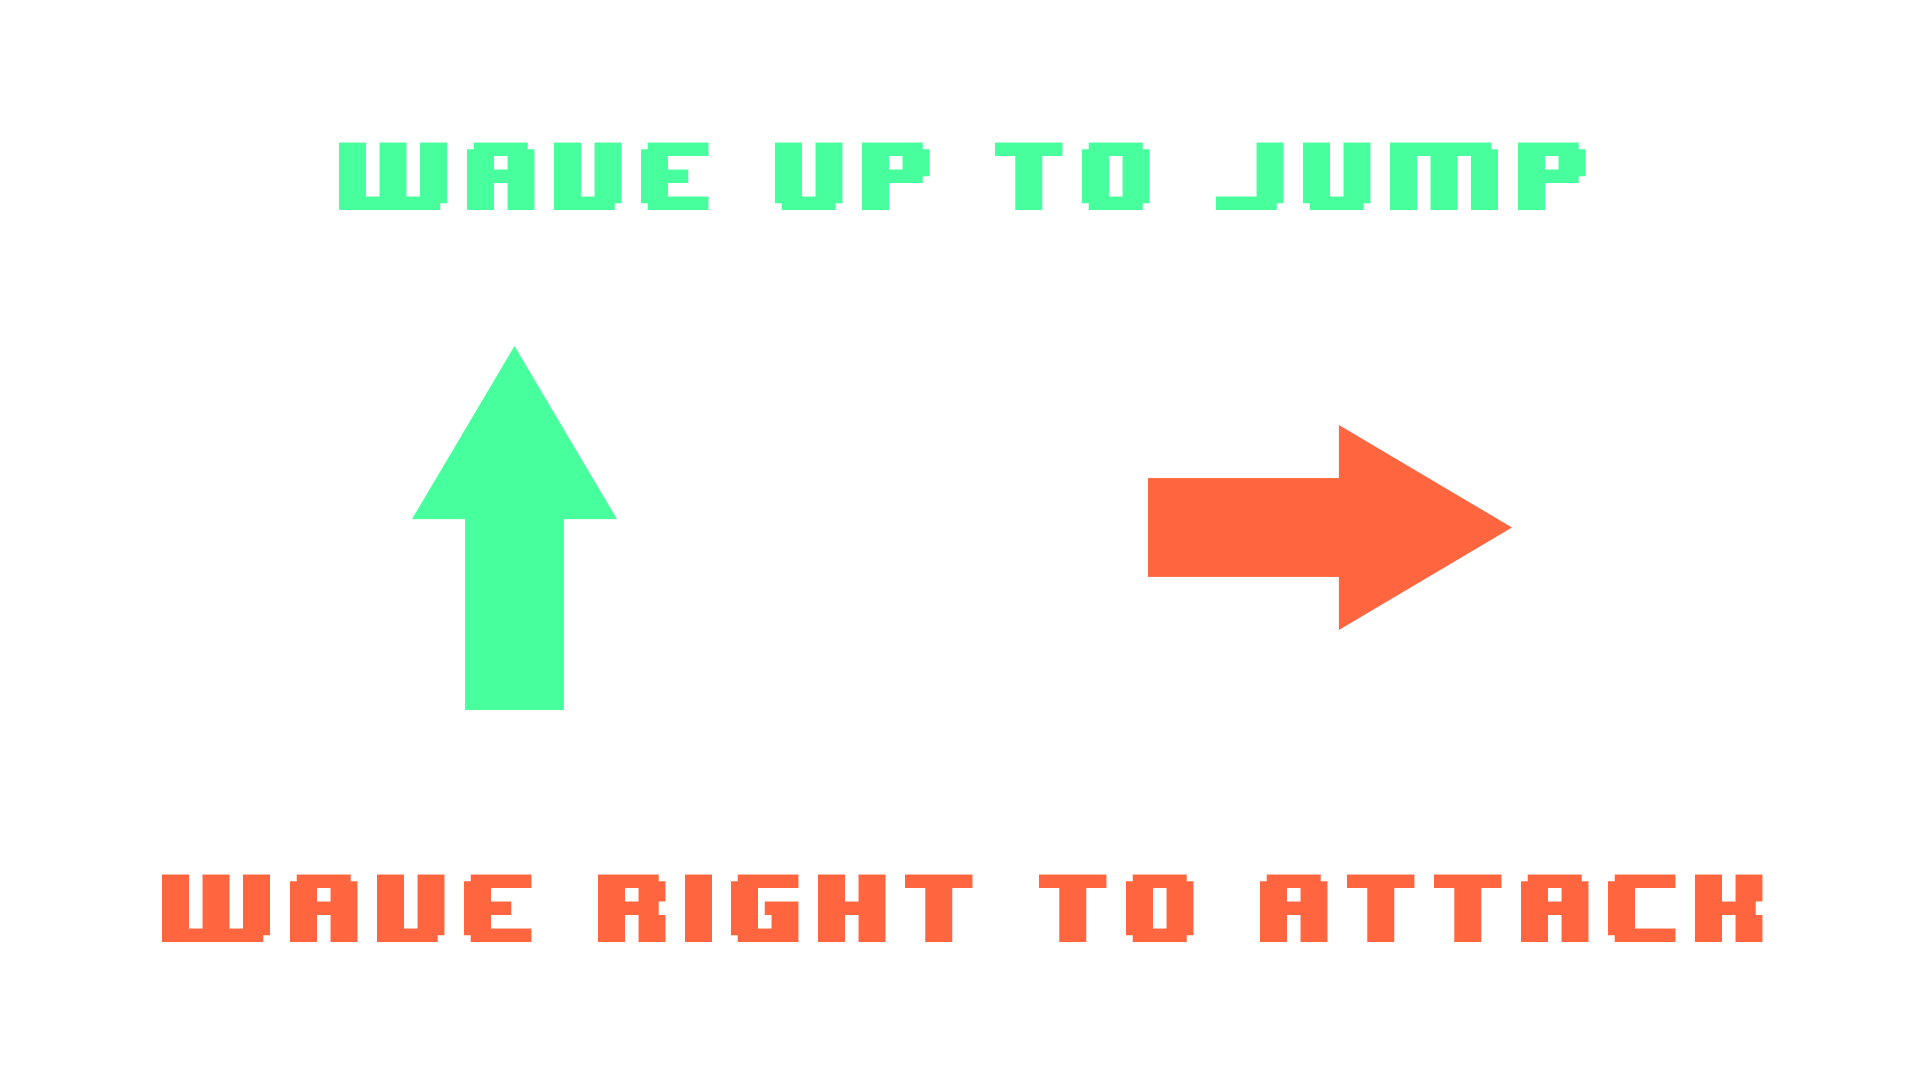
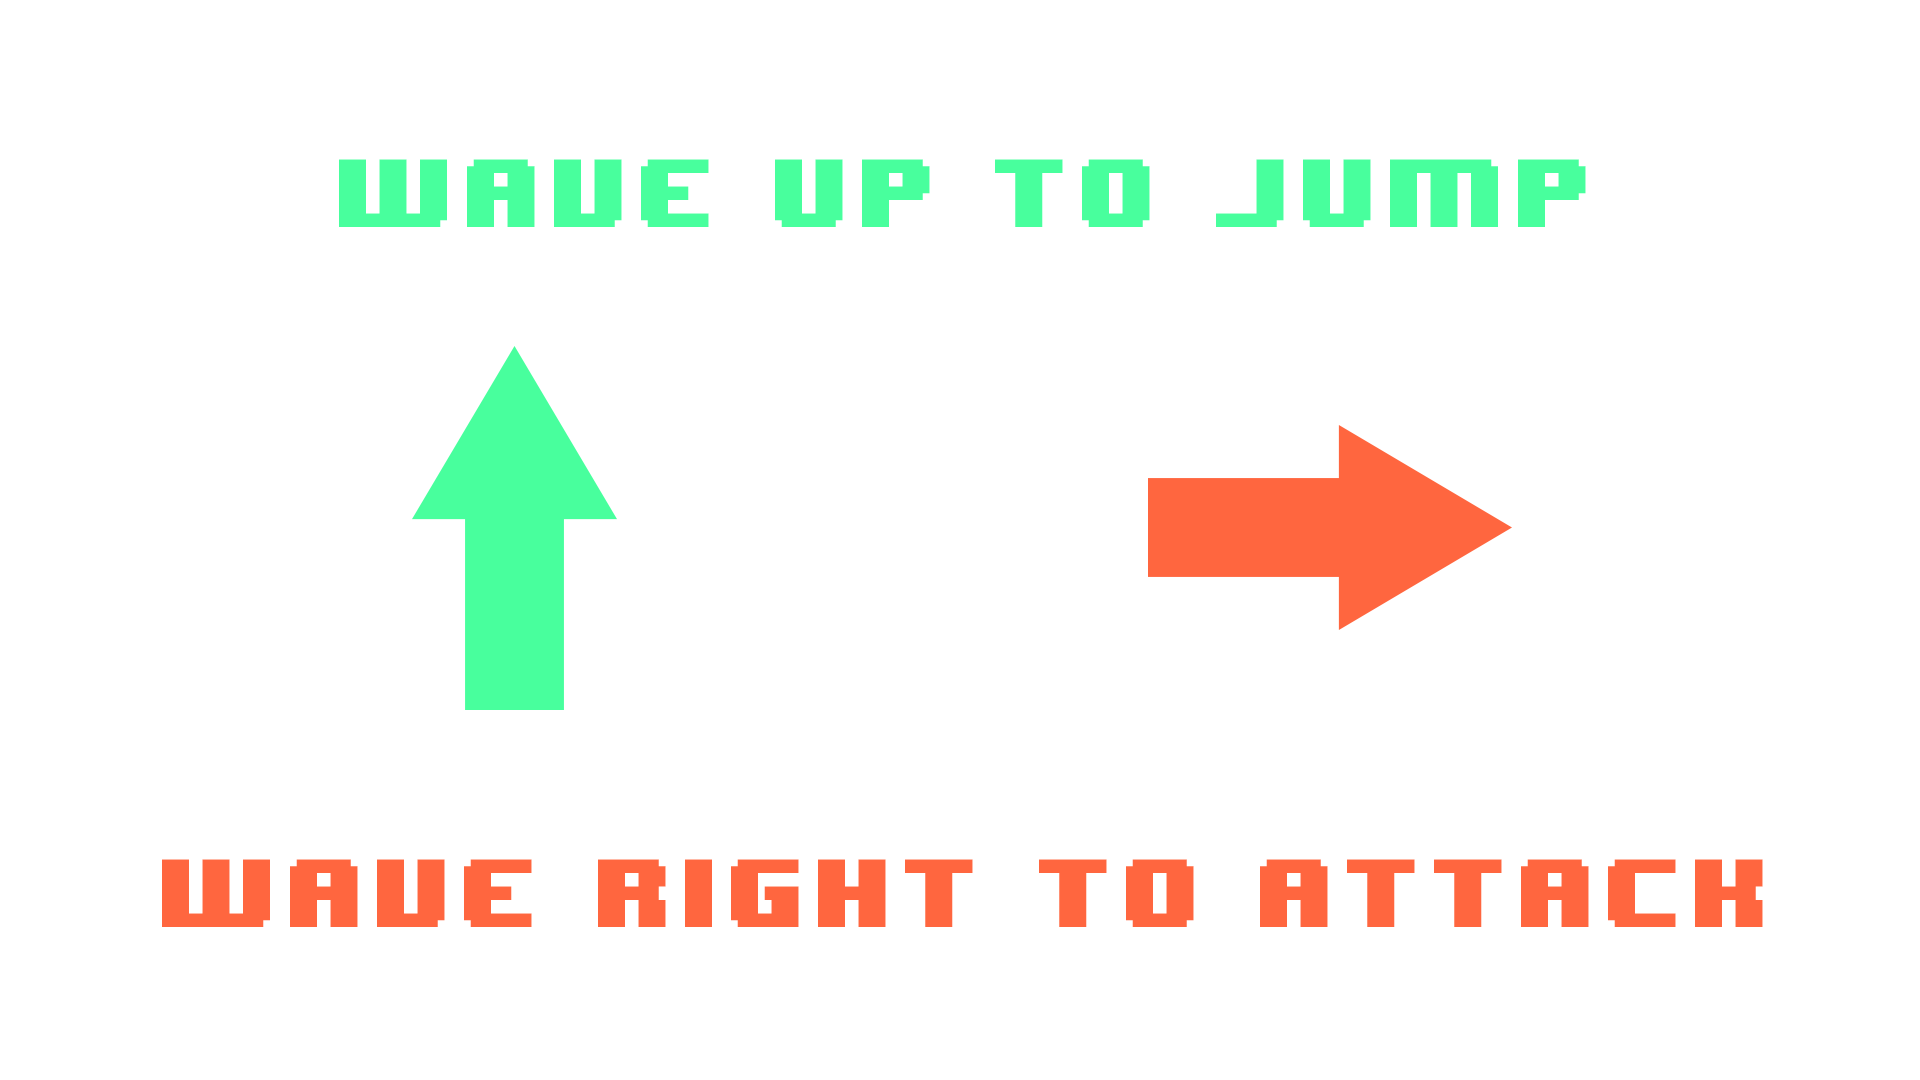
Tutorial weirdness

diff --git a/Game.H b/Game.H
@@ -54,10 +54,6 @@ namespace Game {
         cout << "Error loading background texture" << endl;
       }
 
-      if ( !tutorialTexture.loadFromFile(assetBasePath + "tutorial.png") ) {
-        cout << "Error loading tutorial texture" << endl;
-      }
-
       if ( !font.loadFromFile(assetBasePath + "8bit.ttf") ) {
         cout << "Error loading font" << endl;
       }
@@ -85,13 +81,6 @@ namespace Game {
       float scale = std::max(scaleX, scaleY);
       backgroundSprite.scale(scale, scale);
 
-      auto tutorialSize = tutorialTexture.getSize();
-      tutorialSprite.setTexture(tutorialTexture);
-      scaleX = (float) width / tutorialSize.x;
-      scaleY = (float) height / tutorialSize.y;
-      scale = std::max(scaleX, scaleY);
-      tutorialSprite.scale(scale, scale);
-
       wandDisplay.setFont(font);
 
       gameOverText.setString("Game over");
@@ -108,8 +97,26 @@ namespace Game {
       countdownText.setPosition(sf::Vector2f(width / 2. - textBounds.width / 2,
                                              height / 2. - textBounds.height / 2.));
 
+      jumpTutorialText.setString("Wave up to jump");
+      jumpTutorialText.setFont(font);
+      jumpTutorialText.setCharacterSize(72);
+      textBounds = jumpTutorialText.getLocalBounds();
+      jumpTutorialText.setPosition(sf::Vector2f(width / 2. - textBounds.width / 2,
+                                                height * 0.1));
+      jumpTutorialText.setFillColor(sf::Color(72, 255, 157, 255));
+
+      attackTutorialText.setString("Wave right to attack");
+      attackTutorialText.setFont(font);
+      attackTutorialText.setCharacterSize(72);
+      textBounds = attackTutorialText.getLocalBounds();
+      attackTutorialText.setPosition(sf::Vector2f(width / 2. - textBounds.width / 2,
+                                                  height * 0.8));
+      attackTutorialText.setFillColor(sf::Color(255, 102, 63, 255));
+
       cout << "Game : initialized, dimensions = " << width << "x" << height << endl;
     }
+
+    GameController ( const GameController& other ) = delete;
 
     void draw () {
       window->draw(backgroundSprite);
@@ -117,7 +124,8 @@ namespace Game {
       switch ( phase ) {
 
       case Loading:
-        window->draw(tutorialSprite);
+        window->draw(jumpTutorialText);
+        window->draw(attackTutorialText);
         window->draw(countdownText);
         break;
 
@@ -228,12 +236,12 @@ namespace Game {
     int height;
     float ground;               // Baseline of the characters
 
+    const float loadingInterval = 5.;
+    float loadingTimeout;
+
     // Background
     sf::Texture backgroundTexture;
     sf::Sprite  backgroundSprite;
-
-    sf::Texture tutorialTexture;
-    sf::Sprite  tutorialSprite;
 
     // Characters
     Character harry;
@@ -249,8 +257,8 @@ namespace Game {
     sf::Text gameOverText;
     sf::Text countdownText;
 
-    const float loadingInterval = 5.;
-    float loadingTimeout;
+    sf::Text jumpTutorialText;
+    sf::Text attackTutorialText;
 
     // Shared assets
     sf::Font font;
